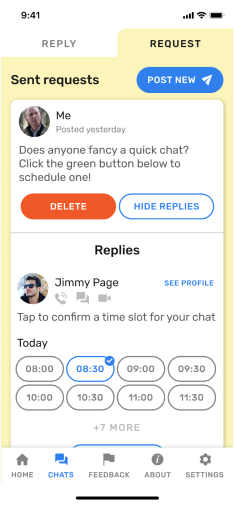
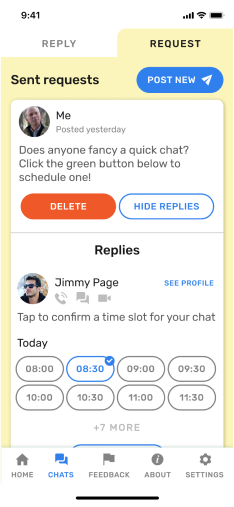
Fixed the extra border for the iphone frame on small devices

diff --git a/src/components/Bloomd/IphoneXFrame/index.css.js b/src/components/Bloomd/IphoneXFrame/index.css.js
@@ -1,4 +1,5 @@
 import styled from 'styled-components';
+import { screens } from '../../../constants/theme';
 
 export const IphoneWrapperCss = styled.div`
   position: relative;
@@ -21,6 +22,10 @@ export const DropShadowWrapperCss = styled.div`
   width: 97.5%;
   height: 97.5%;
   box-shadow: 0 12px 40px rgba(0, 0, 0, 0.15);
+
+  @media (max-width: ${screens.xs}) {
+    height: 90%;
+  }
 `;
 
 export const ImageWrapperCss = styled.div`
